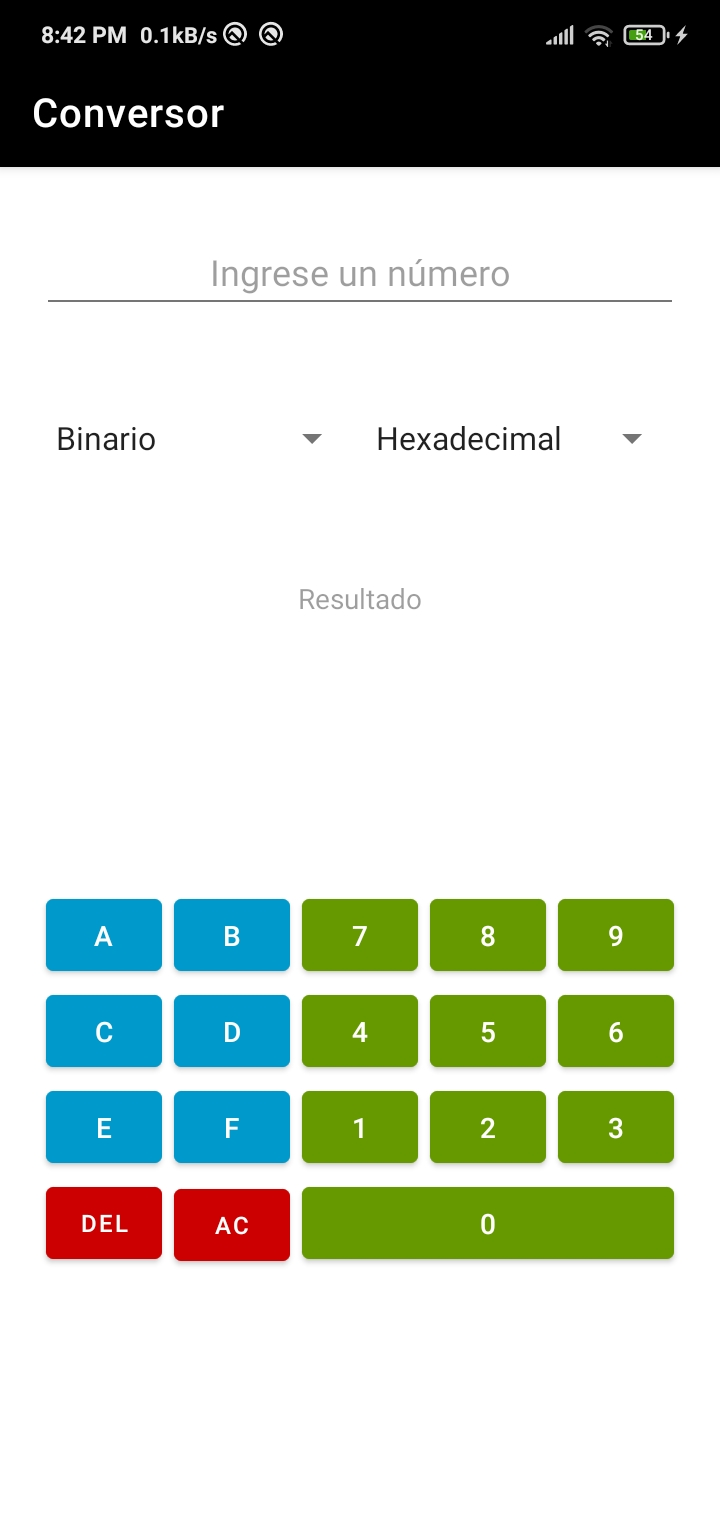
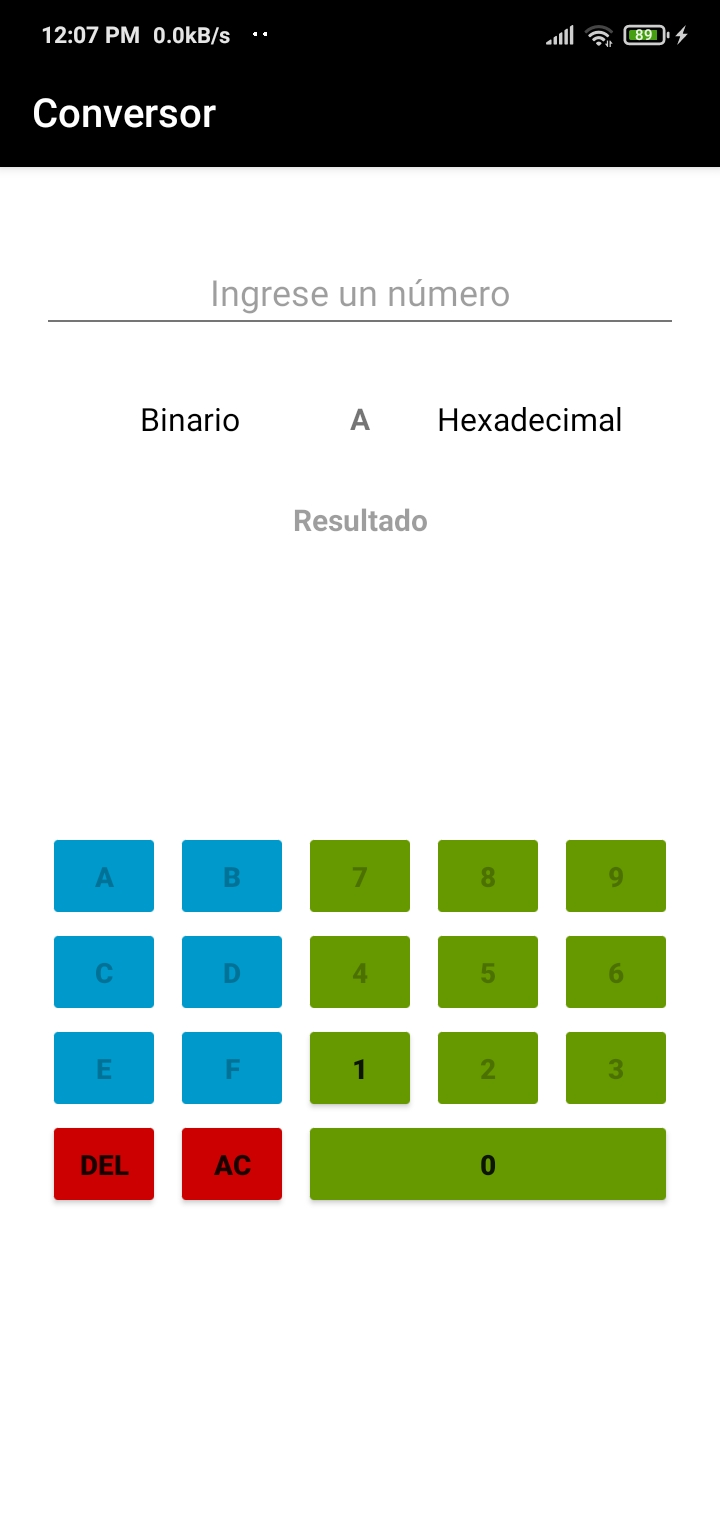
Modifico interfaz de usuario. Actualizo README.md

diff --git a/app/src/main/java/com/fmontalvoo/converter/MainActivity.java b/app/src/main/java/com/fmontalvoo/converter/MainActivity.java
@@ -85,7 +85,6 @@ public class MainActivity extends AppCompatActivity implements View.OnClickListe
         spnGoal.setOnItemSelectedListener(new AdapterView.OnItemSelectedListener() {
             @Override
             public void onItemSelected(AdapterView<?> parent, View view, int position, long id) {
-                view.setRotationY(180);
                 view.setTextAlignment(View.TEXT_ALIGNMENT_CENTER);
                 optionB = spnGoal.getSelectedItemPosition();
                 convert();

diff --git a/README.md b/README.md
@@ -7,3 +7,35 @@ Aplicación para convertir unidades numéricas: binario, decimal, octal y hexade
 <p align="center">
     <img src="img/img_01.jpg" />
 </p>
+
+<hr>
+
+<p align="center">
+    <img src="img/img_02.jpg" />
+</p>
+
+<hr>
+
+<p align="center">
+    <img src="img/img_03.jpg" />
+</p>
+
+<hr>
+
+<p align="center">
+    <img src="img/img_04.jpg" />
+</p>
+
+<hr>
+
+<p align="center">
+    <img src="img/img_05.jpg" />
+</p>
+
+<hr>
+
+<p align="center">
+    <a href="https://play.google.com/store/apps/details?id=com.fmontalvoo.converter" target="_blank">
+        <img src="img/play_store.png" />
+    </a>
+</p>
